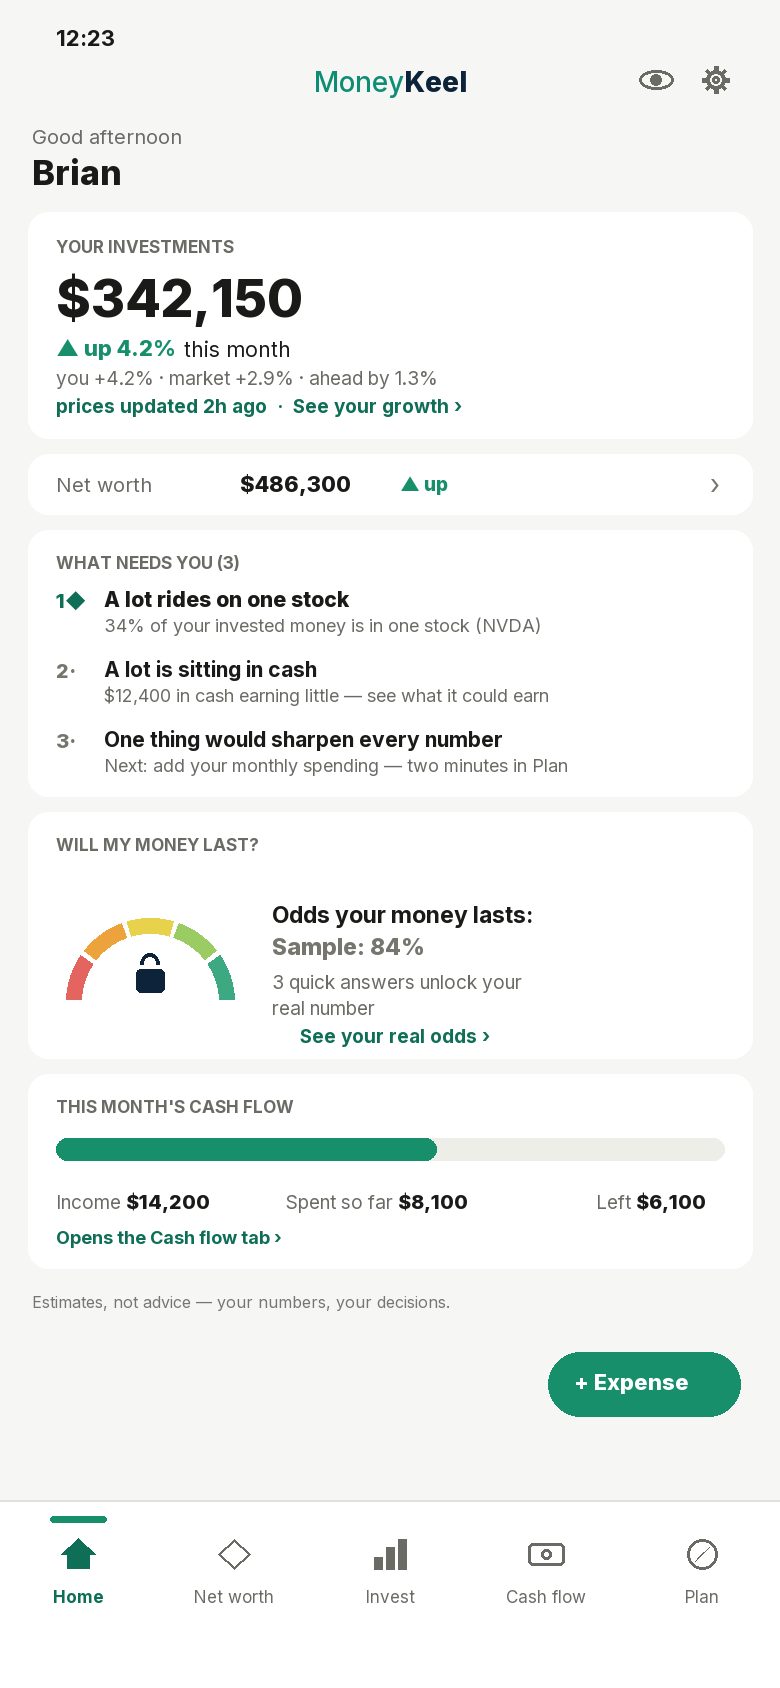
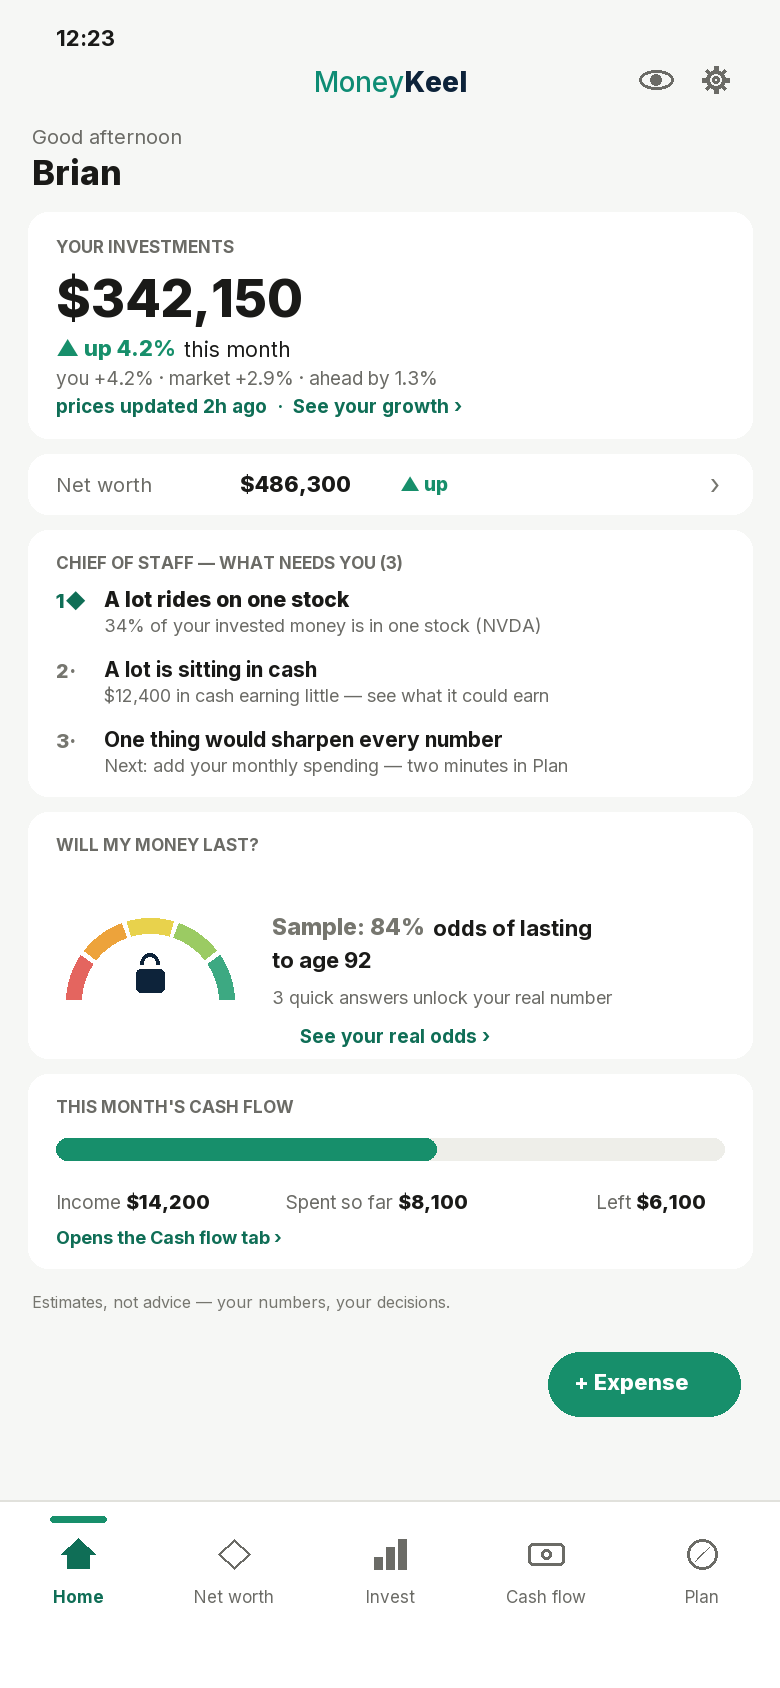
feat(FCC): Home — 'CHIEF OF STAFF — WHAT NEEDS YOU' identity header + odds carry their horizon everywhere (founder round)
The number is now a SELF-CONTAINED sentence: 'Sample: 84% odds of lasting to age 92' /
'Likely — 78% odds of lasting to age 92 — estimate' — nobody has to remember what horizon
they set. Kept the plain question header ('WILL MY MONEY LAST?') and plain words over
'confidence score / probability of success' per the founder's own voice rules.

diff --git a/src/screens/HomeScreen.tsx b/src/screens/HomeScreen.tsx
@@ -277,7 +277,7 @@ export default function HomeScreen() {
 
         {/* WHAT NEEDS YOU — top 3 from the ONE insights engine (same items/order as Insights) */}
         <View style={styles.box}>
-          <Text style={styles.boxLabel}>WHAT NEEDS YOU {topInsights.length > 0 ? `(${topInsights.length})` : ''}</Text>
+          <Text style={styles.boxLabel}>CHIEF OF STAFF — WHAT NEEDS YOU {topInsights.length > 0 ? `(${topInsights.length})` : ''}</Text>
           {topInsights.length === 0 && <Text style={styles.nothingTxt}>Nothing needs you today — nice.</Text>}
           {topInsights.map((ins, i) => (
             <TouchableOpacity accessibilityRole="button" key={ins.id} style={[styles.needRow, i > 0 && styles.divider]} activeOpacity={0.7}
@@ -299,11 +299,11 @@ export default function HomeScreen() {
         <TouchableOpacity accessibilityRole="button" style={styles.box} activeOpacity={0.85} onPress={() => router.push('/(tabs)/plan')}
          
           accessibilityLabel={wil.chance != null
-            ? `Will my money last to ${wil.horizonAge}: ${chanceWord(wil.chance)}, ${wil.chance} percent, an estimate. Opens Plan.`
-            : 'Will my money last: sample gauge showing sample 84 percent, not your number. Three quick answers show your real odds — questions, not a purchase. Opens Plan.'}>
-          <Text style={styles.boxLabel}>WILL MY MONEY LAST?{wil.chance != null ? ` — to ${wil.horizonAge}` : ''}</Text>
+            ? `Will my money last: ${chanceWord(wil.chance)}, ${wil.chance} percent odds of lasting to age ${wil.horizonAge}, an estimate. Opens Plan.`
+            : `Will my money last: sample gauge, sample 84 percent odds of lasting to age ${wil.horizonAge}, not your number. Three quick answers show your real odds — questions, not a purchase. Opens Plan.`}>
+          <Text style={styles.boxLabel}>WILL MY MONEY LAST?</Text>
           {wil.chance != null ? (
-            <Text style={styles.wilTxt}>{chanceWord(wil.chance)} — {wil.chance}% <Text style={styles.wilEst}>— estimate</Text></Text>
+            <Text style={styles.wilTxt}>{chanceWord(wil.chance)} — {wil.chance}% odds of lasting to age {wil.horizonAge} <Text style={styles.wilEst}>— estimate</Text></Text>
           ) : (
             // founder 2026-07-15: a living tease of the prediction engine, never a chore — the full
             // gauge visual, LOCKED, with the number visibly blank (a fake 88% would be a trust bug)
@@ -318,7 +318,7 @@ export default function HomeScreen() {
               </View>
               <View style={{ flex: 1 }}>
                 <View style={styles.gaugeLine}>
-                  <Text style={styles.gaugeBlank}>Odds your money lasts: <Text style={styles.gaugeSampleNum}>Sample: 84%</Text></Text>
+                  <Text style={styles.gaugeBlank}><Text style={styles.gaugeSampleNum}>Sample: 84%</Text> odds of lasting to age {wil.horizonAge}</Text>
                 </View>
                 <Text style={styles.wilInvite}>3 quick answers unlock your real number</Text>
               </View>
